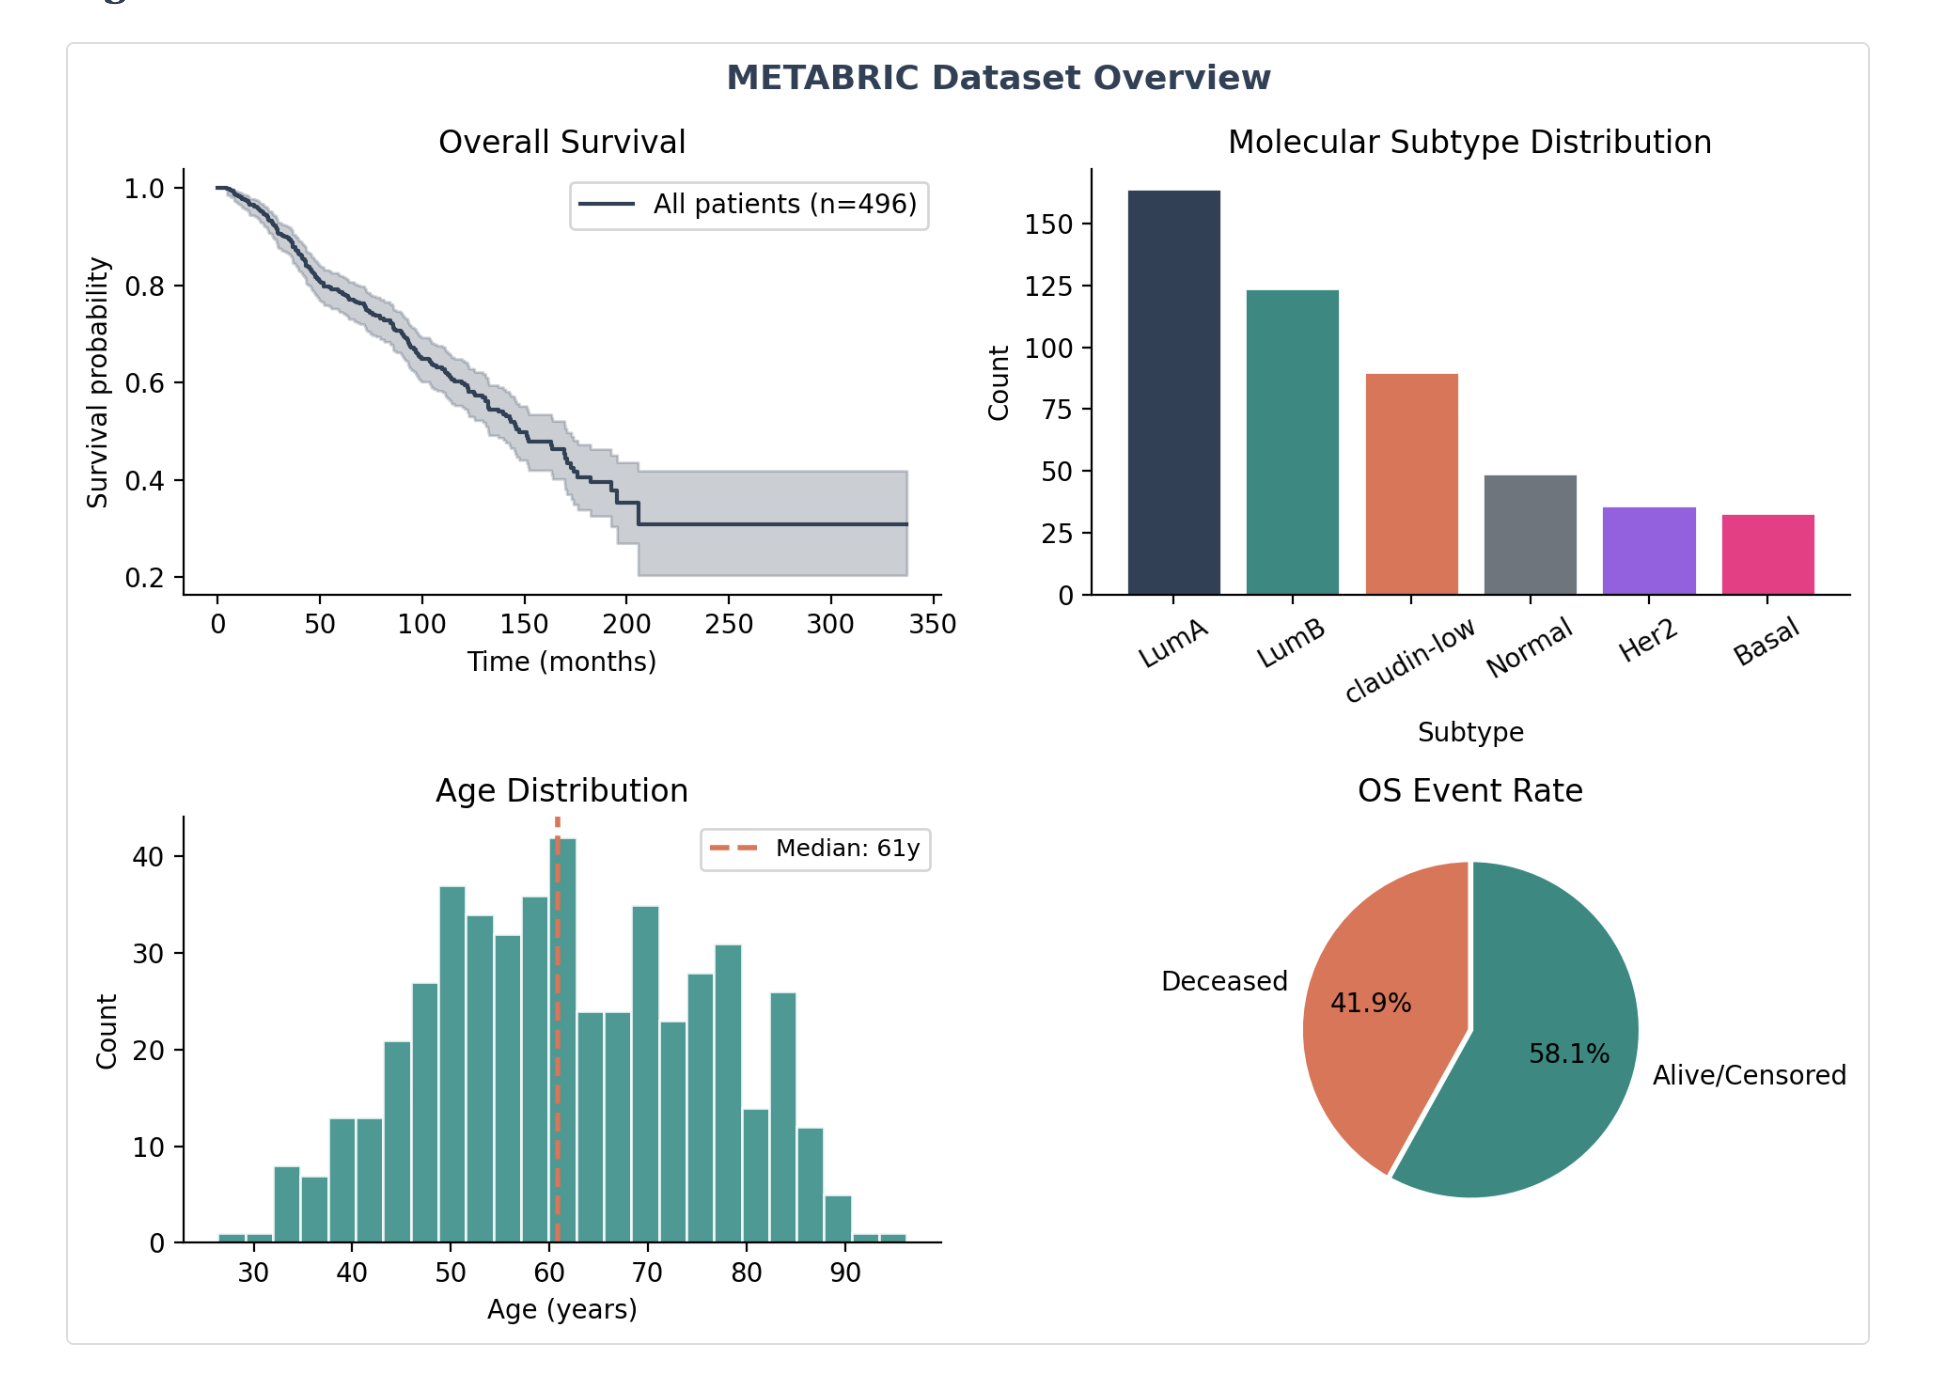
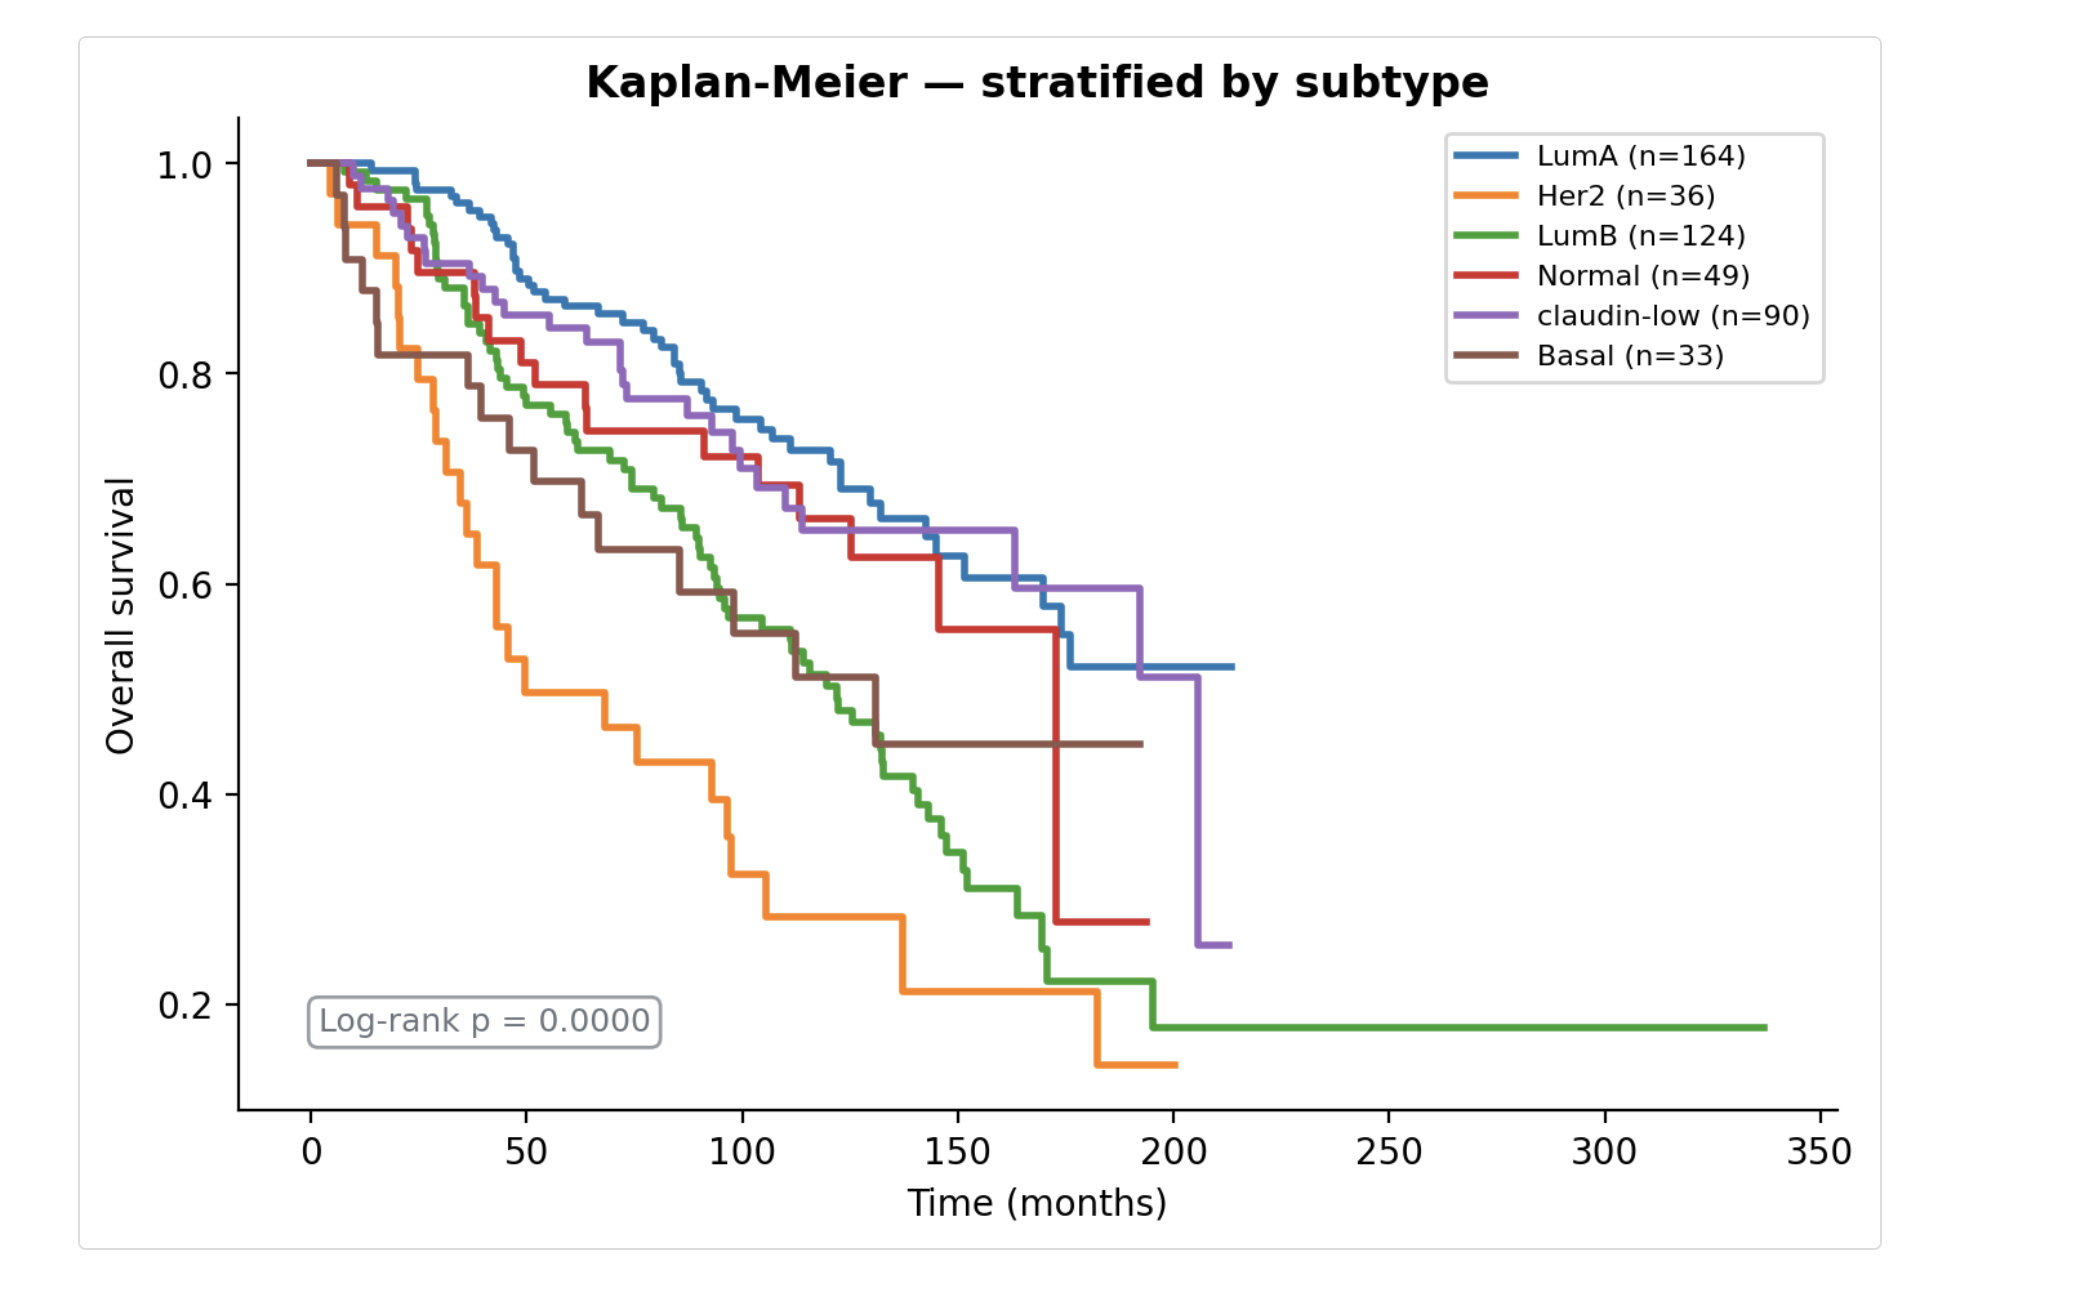
Fix plot extraction: numpy serialization, ast fallback, updated KM screenshot

diff --git a/src/tools.py b/src/tools.py
@@ -43,7 +43,17 @@ def fig_to_base64(fig):
     plt.close(fig)
     return img_str
 
-
+def make_json_serializable(obj):
+    """Convert numpy types to native Python types for JSON serialization."""
+    if isinstance(obj, dict):
+        return {k: make_json_serializable(v) for k, v in obj.items()}
+    elif isinstance(obj, list):
+        return [make_json_serializable(v) for v in obj]
+    elif hasattr(obj, 'item'):  # numpy scalars
+        return obj.item()
+    elif hasattr(obj, 'tolist'):  # numpy arrays
+        return obj.tolist()
+    return obj
 
 @tool
 def kaplan_meier_analysis(stratify_by: str) -> dict:
@@ -98,13 +108,13 @@ def kaplan_meier_analysis(stratify_by: str) -> dict:
     ax.set_title(f"Kaplan-Meier — stratified by {stratify_by}", fontweight="bold")
     ax.legend(fontsize=8, loc="upper right")
 
-    return {
+    return make_json_serializable({
         "stratify_by": stratify_by,
         "logrank_p": float(res.p_value),
-        "significant": res.p_value < 0.05,
+        "significant": bool(res.p_value < 0.05),
         "groups": results,
         "plot_base64": fig_to_base64(fig)
-    }
+    })
 
 @tool
 def cox_model(features: list) -> dict:
@@ -154,11 +164,11 @@ def cox_model(features: list) -> dict:
             transform=ax.transAxes, ha="right", fontsize=10,
             bbox=dict(boxstyle="round,pad=0.4", fc="#F4F1DE", ec=COLORS["primary"]))
 
-    return {
+    return make_json_serializable({
         "c_index": round(cph.concordance_index_, 3),
         "hazard_ratios": summary.to_dict(),
         "plot_base64": fig_to_base64(fig)
-    }
+    })
 
 @tool
 def ml_prediction(cutoff_months: int = 60) -> dict:
@@ -261,7 +271,7 @@ def describe_dataset() -> dict:
 
     plt.tight_layout()
 
-    return {
+    return make_json_serializable({
         "n_patients": len(df),
         "os_event_rate": round(df["os_event"].mean(), 3),
         "median_followup_months": round(df["os_months"].median(), 1),
@@ -270,4 +280,4 @@ def describe_dataset() -> dict:
         "er_positive_pct": round((df["er"] == "Positive").mean(), 3),
         "her2_positive_pct": round((df["her2"] == "Positive").mean(), 3),
         "plot_base64": fig_to_base64(fig)
-    }
+    })

diff --git a/src/agent.py b/src/agent.py
@@ -11,7 +11,7 @@ from langgraph.graph import StateGraph, END
 from langgraph.prebuilt import ToolNode
 import operator
 from langchain_core.messages import ToolMessage
-import json
+import json, ast
 
 from src.tools import (
     describe_dataset,
@@ -120,17 +120,18 @@ def run_agent(question: str) -> dict:
         text = str(final_message)
     
     # Extract plots from all tool results
-
-
     plots = []
     for msg in result["messages"]:
         if isinstance(msg, ToolMessage):
             try:
                 data = json.loads(msg.content)
-                if "plot_base64" in data:
-                    plots.append(data["plot_base64"])
             except (json.JSONDecodeError, TypeError):
-                pass
+                try:
+                    data = ast.literal_eval(msg.content)
+                except:
+                    data = {}
+            if isinstance(data, dict) and "plot_base64" in data:
+                plots.append(data["plot_base64"])
 
     return {
         "response": text,
